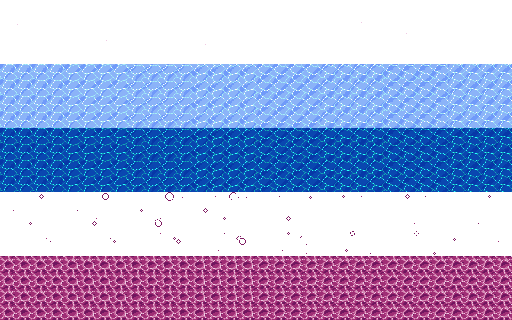
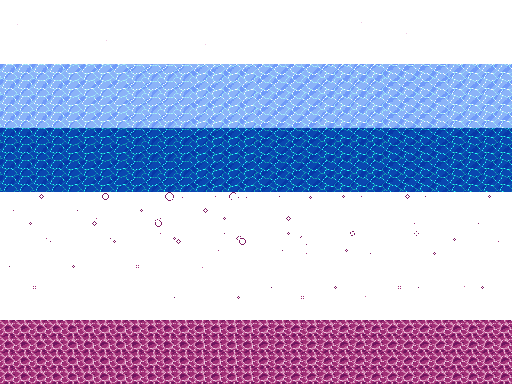
more void for border

diff --git a/src/game/scenes/preload-scene.ts b/src/game/scenes/preload-scene.ts
@@ -34,7 +34,7 @@ export class PreloadScene extends Phaser.Scene {
     const LAVA_ANIM_KEY = 'lava-flow';
     this.anims.create({
         key: LAVA_ANIM_KEY,
-        frames: this.anims.generateFrameNumbers('tile-animated', { start: 32, end: 39 }),
+        frames: this.anims.generateFrameNumbers('tile-animated', { start: 40, end: 47 }),
         frameRate: 8,
         repeat: -1
     });
@@ -49,6 +49,13 @@ export class PreloadScene extends Phaser.Scene {
     this.anims.create({
         key: VOID_ANIM_KEY,
         frames: this.anims.generateFrameNumbers('tile-animated', { start: 24, end: 31 }),
+        frameRate: 8,
+        repeat: -1
+    });
+    const VOID_BORDER_ANIM_KEY = 'void-border-flow';
+    this.anims.create({
+        key: VOID_BORDER_ANIM_KEY,
+        frames: this.anims.generateFrameNumbers('tile-animated', { start: 32, end: 39 }),
         frameRate: 8,
         repeat: -1
     });
